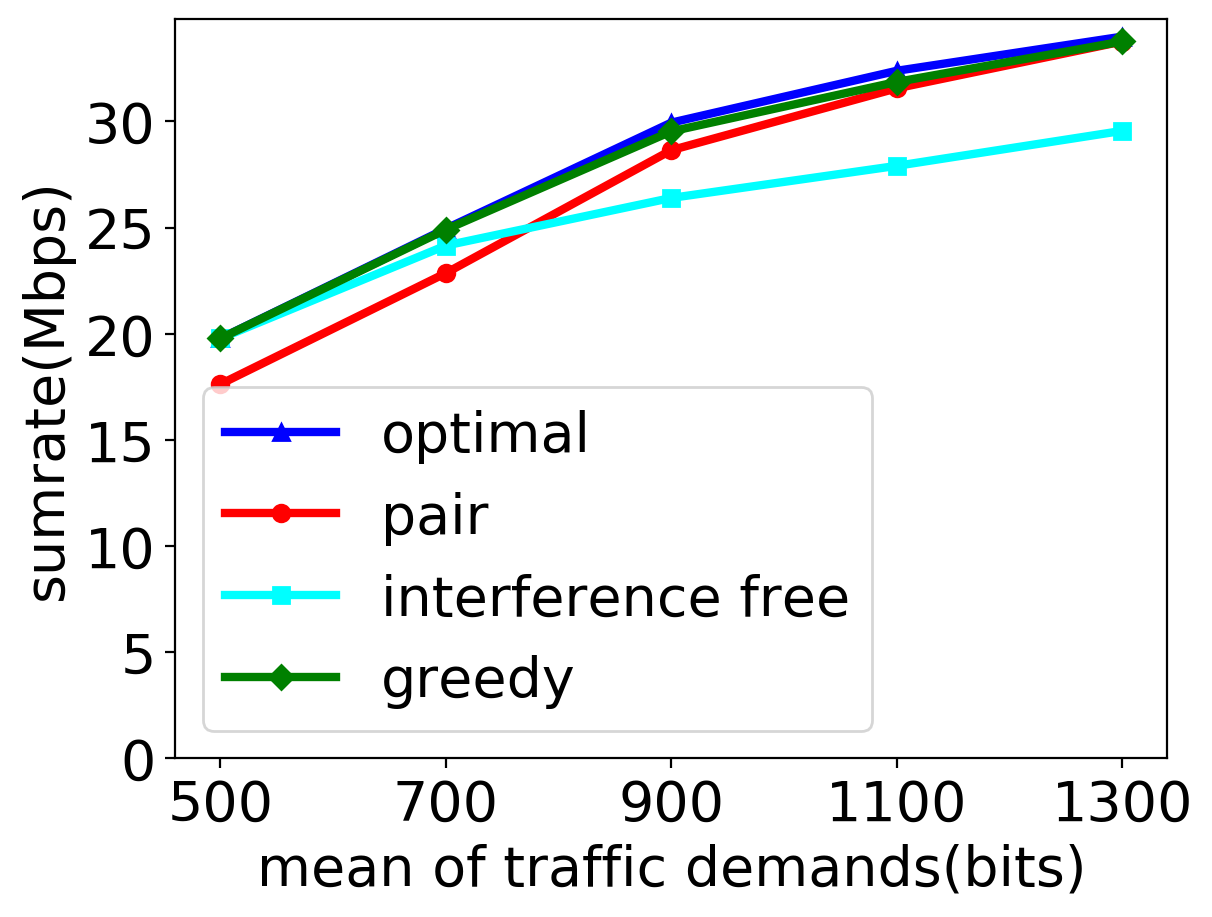
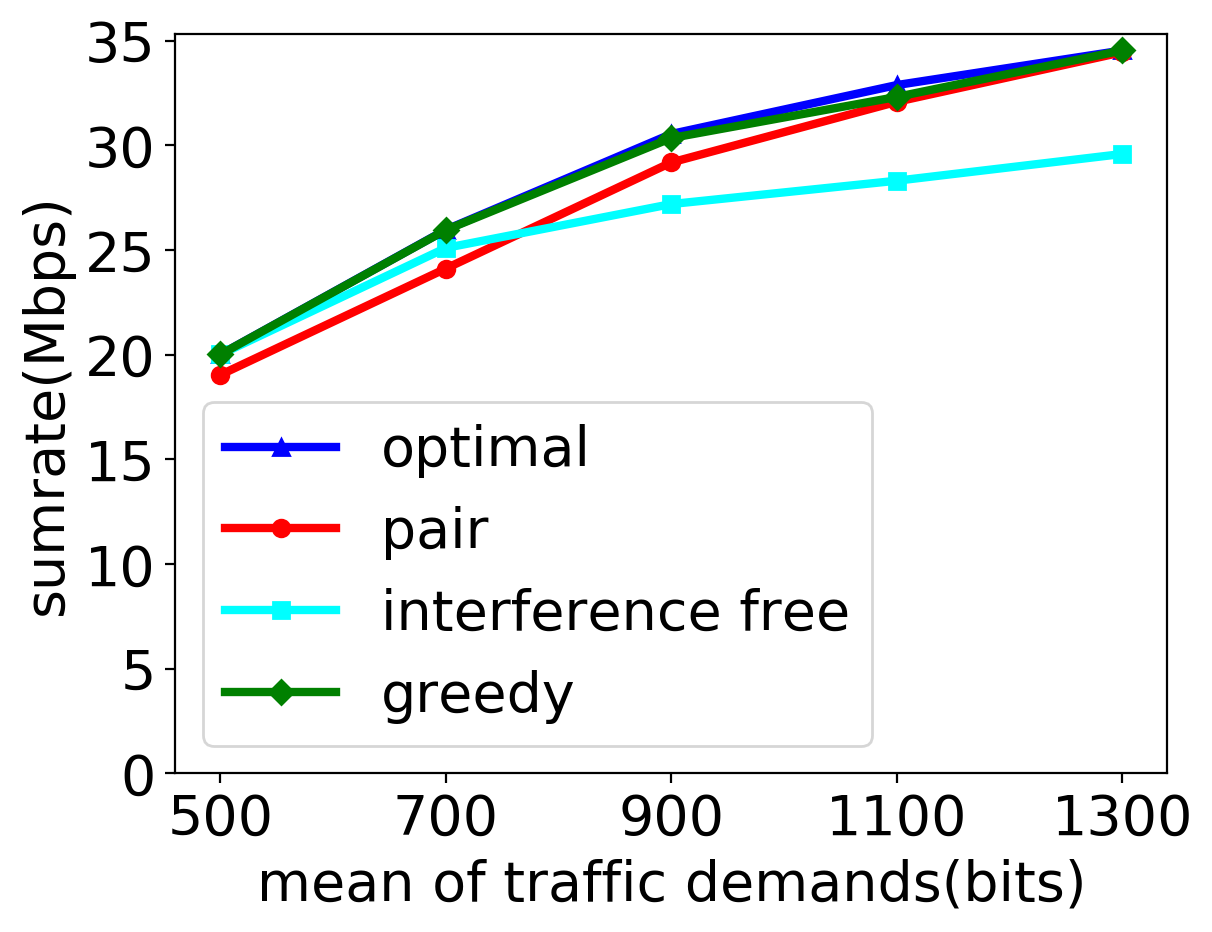
separate rate and td

diff --git a/sim_RA/sim_RA/rtd_setting2.py b/sim_RA/sim_RA/rtd_setting2.py
@@ -8,10 +8,9 @@ import xlrd
 import math
 import os
 
-# [ ] TODO: RB_needed?
-
-def init(mean, lo):
-    global traffic_demands, SNR, SNR_db, rate
+# [ ] 3/26 TODO: separate td and rate 
+def set_traffic_demand(mean, lo):
+    global traffic_demands
     
     book = xlrd.open_workbook('CQI_index.xlsx')
     mcs_table = book.sheets()[0]
@@ -39,6 +38,25 @@ def init(mean, lo):
             td = np.random.normal(mean, sigma) 
             #td = 1100
             traffic_demands[i].append(td) 
+
+def set_rate():
+    global SNR, SNR_db, rate
+    
+    book = xlrd.open_workbook('CQI_index.xlsx')
+    mcs_table = book.sheets()[0]
+    
+    #num_bs, num_subcarriers, num_time_slots, num_users, num_users_i, num_itf_users, itf_idx_i = _setting()
+    num_bs, num_subcarriers, num_time_slots, num_users, num_users_i = _setting()
+
+    all_bs = range(num_bs)
+    all_users = range(num_users)
+    all_subcarriers = range(num_subcarriers)
+    all_time_slots = range(num_time_slots)
+    all_users_i = []
+    
+    for i in all_bs:
+        all_users_i.append(range(num_users_i[i]))
+
 
     SNR = []  
     for i in all_bs:
@@ -80,6 +98,7 @@ def init(mean, lo):
     #print('rate:')
     #print(rate)
     #print()
+
 
 def _rtd_setting2():
 

diff --git a/sim_RA/sim_RA/sim_RA.py b/sim_RA/sim_RA/sim_RA.py
@@ -63,17 +63,18 @@ def main():
     mode_type = ['itf_percentage', 'td distribution']
     mode = mode_type[1]
 
-    sim_times = 50
+    sim_times = 5
     t = 0
     while t < sim_times:
         t += 1
         #print(t)
         sim_parameter = 0
+        rtd_setting2.set_rate()
         if mode == mode_type[0]:
             itf_percent = 0
             lo = 200
             mean = 1100
-            rtd_setting2.init(mean, lo) 
+            rtd_setting2.set_traffic_demand(mean, lo) 
         elif mode == mode_type[1]:
             pass
         while sim_parameter < 5:
@@ -83,7 +84,7 @@ def main():
                 itf_percent = 2
                 lo = 200
                 mean = [500, 700, 900, 1100, 1300]
-                rtd_setting2.init(mean[sim_parameter], lo) 
+                rtd_setting2.set_traffic_demand(mean[sim_parameter], lo) 
             '''
             print(t)
             print('itf_percent:', itf_percent * 20)
